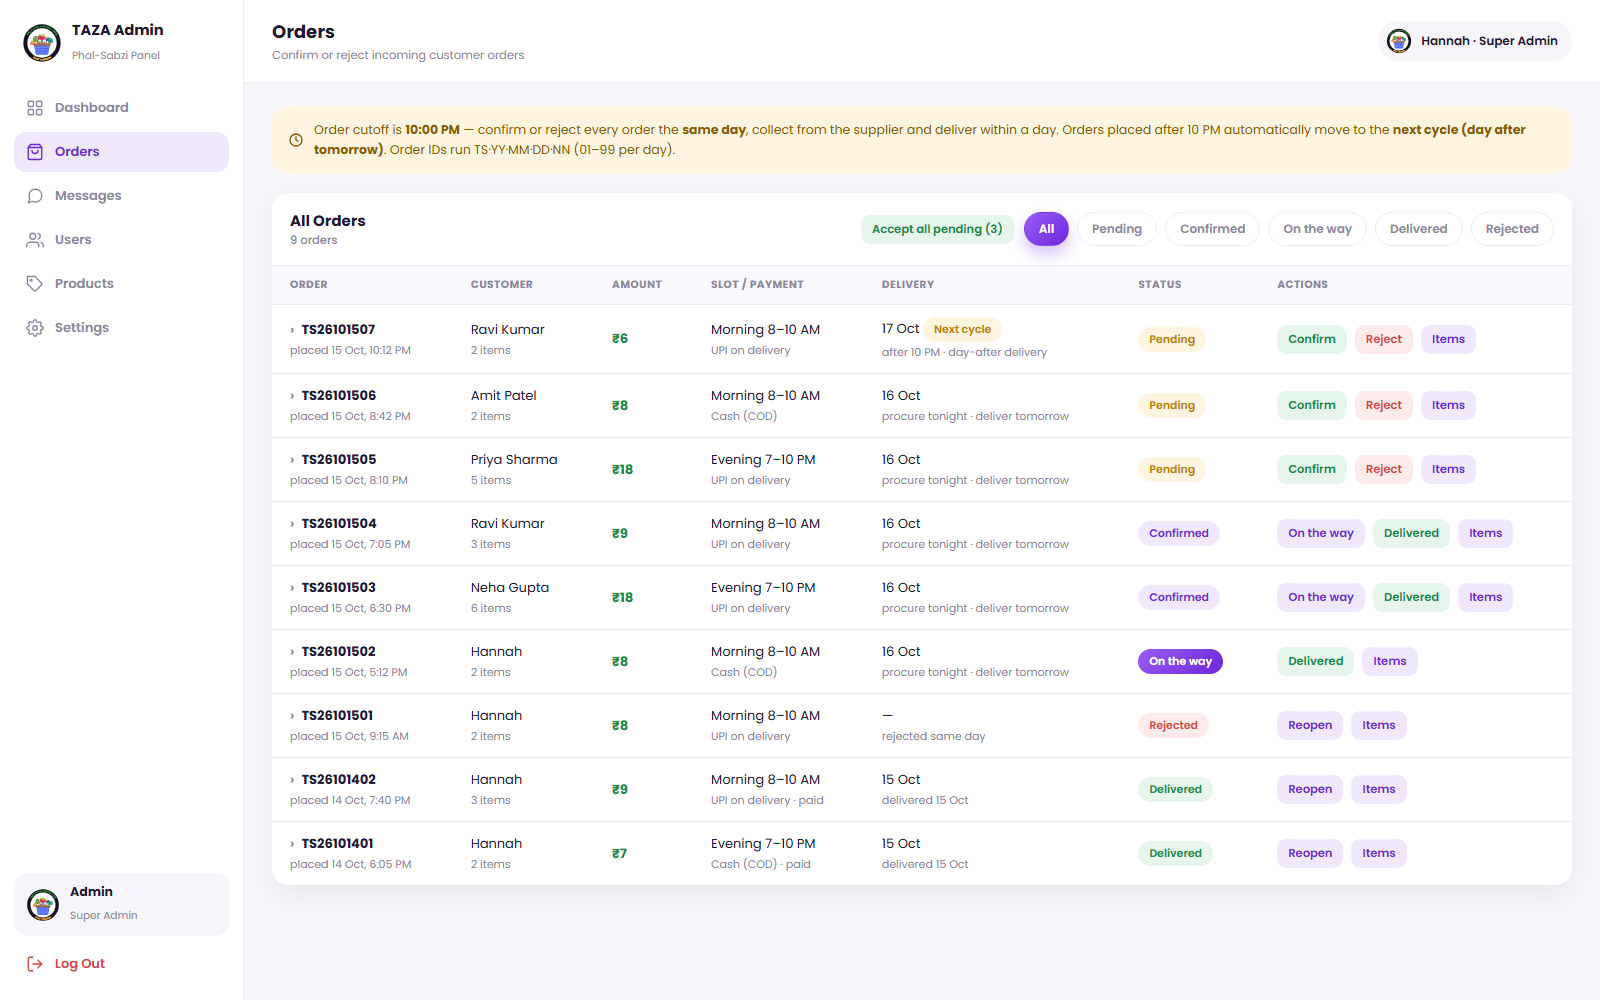
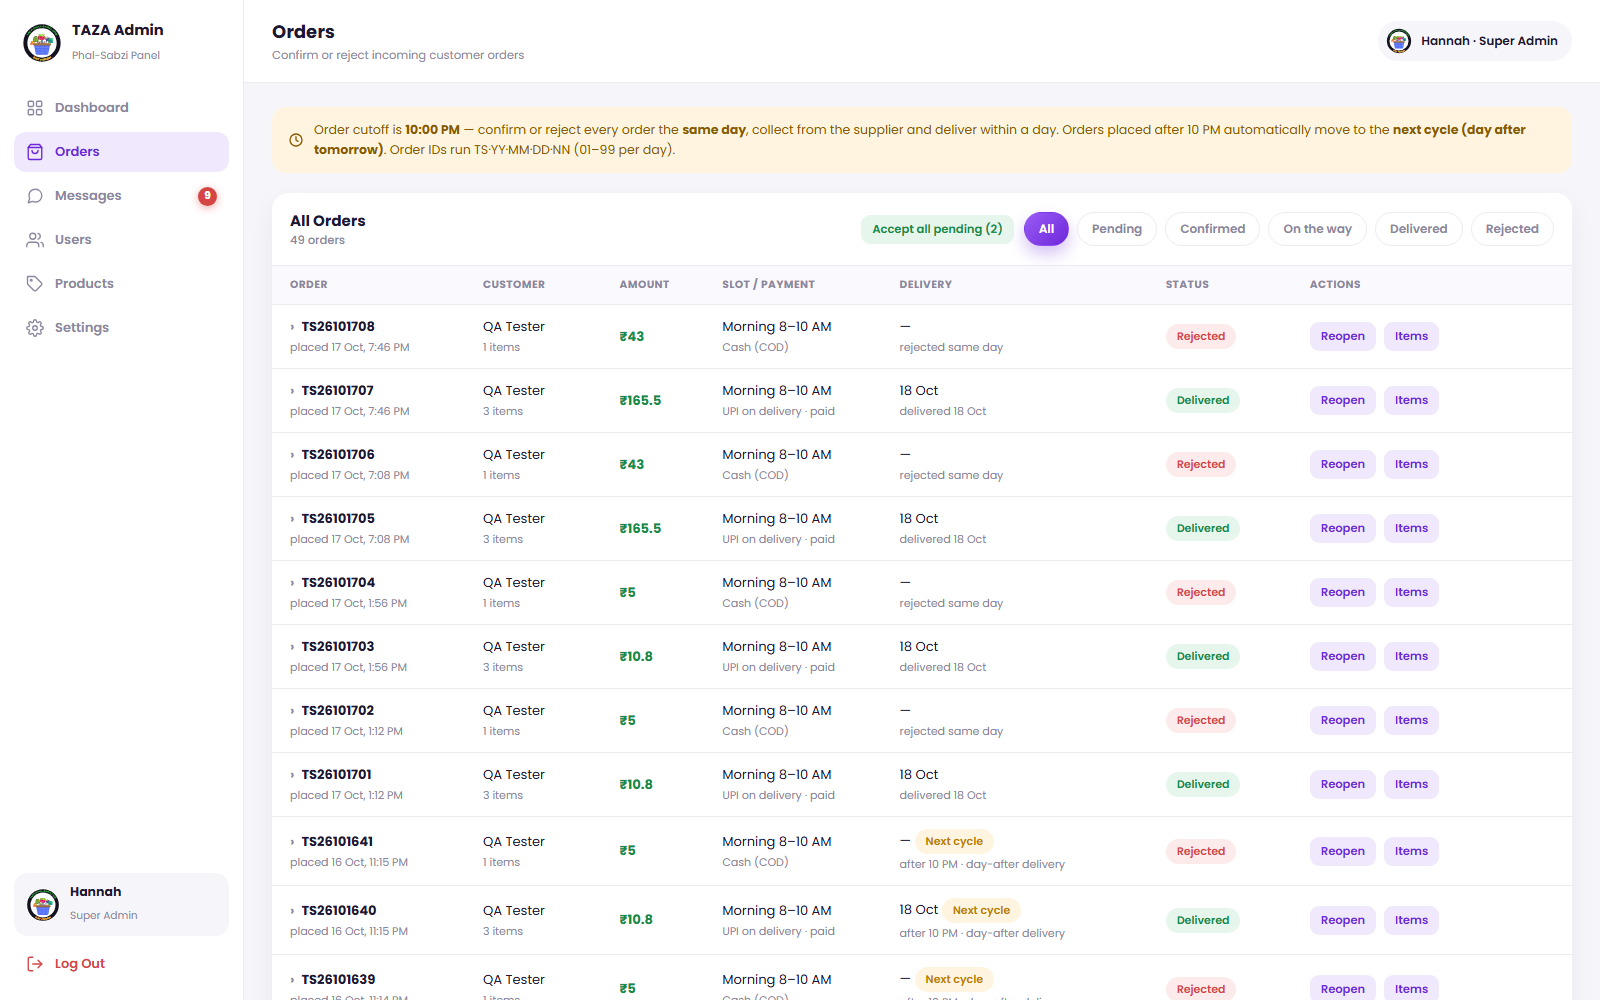
Admin: products as compact tiles on mobile + search, collapsible Add form, unread-messages badge on sidebar

diff --git a/admin/admin.js b/admin/admin.js
@@ -253,6 +253,19 @@
       '<div class="admin-user"><img src="logo.svg" alt="" /><div><b id="sidebarAdminName">Admin</b><span>Super Admin</span></div></div>' +
       '<a class="nav-item logout" id="adminLogout" href="../templates/login.html">' + ICONS.logout + '<span>Log Out</span></a>';
 
+    /* unread-messages badge on the Messages nav item (visible from every page) */
+    var msgLink = null;
+    Array.prototype.forEach.call(el.querySelectorAll('.nav-item'), function (a) {
+      if ((a.getAttribute('href') || '').indexOf('messages.html') !== -1) msgLink = a;
+    });
+    if (msgLink && !el.querySelector('#msgBadge')) {
+      var badge = document.createElement('span');
+      badge.className = 'nav-badge';
+      badge.id = 'msgBadge';
+      badge.hidden = true;
+      msgLink.appendChild(badge);
+    }
+
     /* mobile: hamburger button in the topbar + slide-in drawer (admin is used on phones) */
     var topbar = $('.topbar');
     if (topbar && !$('#navToggle')) {
@@ -295,6 +308,26 @@
   }
 
   /* ---------------- shared bits ---------------- */
+
+  /* red "new messages" badge on the sidebar Messages item — refreshed from
+     every admin page so unread chats are never missed */
+  function refreshMessagesBadge() {
+    var badge = document.getElementById('msgBadge');
+    if (!badge) return;
+    if (!LIVE) {
+      var n = 0;
+      state.conversations.forEach(function (c) { n += Number(c.unread) || 0; });
+      badge.textContent = n;
+      badge.hidden = !n;
+      return;
+    }
+    if (!window.TAZA || !window.TAZA.token()) return;
+    window.TAZA.adminUnread().then(function (res) {
+      var n = Number(res.unread) || 0;
+      badge.textContent = n;
+      badge.hidden = !n;
+    }).catch(function () { /* keep the last known count */ });
+  }
 
   var STATUS_CLASS = { 'Pending': 'pending', 'Confirmed': 'confirmed', 'On the way': 'way', 'Delivered': 'delivered', 'Rejected': 'rejected' };
 
@@ -728,11 +761,14 @@
   }
 
   var productFilter = 'All';
+  var productQuery = '';
 
   function renderProducts() {
     var tbody = $('#productsBody');
     if (!tbody) return;
+    var q = productQuery.trim().toLowerCase();
     var list = state.products.filter(function (p) {
+      if (q && String(p.name).toLowerCase().indexOf(q) === -1) return false;
       if (productFilter === 'All') return true;
       if (productFilter === 'Disabled') return Number(p.active) === 0;
       return p.cat === productFilter;
@@ -784,7 +820,10 @@
     var countEl = $('#prodCount');
     if (countEl) {
       var offCount = state.products.filter(function (p) { return Number(p.active) === 0; }).length;
-      countEl.textContent = list.length + ' products' + (productFilter !== 'Disabled' && offCount ? ' · ' + offCount + ' disabled' : '');
+      var base = q || productFilter !== 'All'
+        ? list.length + ' of ' + state.products.length + ' products'
+        : list.length + ' products';
+      countEl.textContent = base + (productFilter !== 'Disabled' && offCount ? ' · ' + offCount + ' disabled' : '');
     }
   }
 
@@ -913,10 +952,12 @@
         });
         renderThread();
         renderConvList();
+        refreshMessagesBadge();
       }).catch(function (err) { toast(err.message || 'Could not load the conversation'); });
       return;
     }
     renderThread();
+    refreshMessagesBadge();
   }
 
   /* ---------------- product photos & description (modal) ---------------- */
@@ -1054,6 +1095,7 @@
         return { id: c.id, name: c.name, status: c.status, last_text: c.last_text, last_at: c.last_at, unread: c.unread, messages: open && String(activeConvId) === String(c.id) ? open : [] };
       });
       renderConvList();
+      refreshMessagesBadge();
       if (!activeConvId && state.conversations.length) openConversation(state.conversations[0].id);
     }).catch(function (err) { toast(err.message || 'Could not load conversations'); });
   }
@@ -1470,6 +1512,41 @@
     }
   }
 
+  /* product search box — filters live as you type */
+  var prodSearchEl = $('#prodSearch');
+  if (prodSearchEl) {
+    prodSearchEl.addEventListener('input', function () {
+      productQuery = prodSearchEl.value || '';
+      renderProducts();
+    });
+  }
+
+  /* mobile: collapse the Add-Product form so the catalogue is one screen away */
+  (function () {
+    var form = $('#addProductForm');
+    var toggle = $('#addToggle');
+    if (!form || !toggle) return;
+    var isMobile = function () { return window.matchMedia('(max-width: 980px)').matches; };
+    var apply = function () {
+      var open = form.getAttribute('data-open') === '1';
+      if (isMobile()) {
+        toggle.hidden = false;
+        form.hidden = !open;
+        toggle.textContent = open ? '− Close' : '+ New item';
+      } else {
+        toggle.hidden = true;
+        form.hidden = false;
+      }
+    };
+    toggle.addEventListener('click', function () {
+      form.setAttribute('data-open', form.getAttribute('data-open') === '1' ? '0' : '1');
+      apply();
+      if (form.getAttribute('data-open') === '1' && $('#npName')) $('#npName').focus();
+    });
+    window.addEventListener('resize', apply);
+    apply();
+  })();
+
   /* ---------------- init ---------------- */
 
   function initDemo() {
@@ -1499,6 +1576,7 @@
     fillSettings(DEMO.settings);
     renderConvList();
     if ($('#convList') && state.conversations.length) openConversation(state.conversations[0].id);
+    refreshMessagesBadge();
   }
 
   function initLive(me) {
@@ -1552,6 +1630,10 @@
       window.TAZA.adminSettings().then(function (res) { fillSettings(res.settings); })
         .catch(function (err) { toast(err.message || 'Could not load settings'); });
     }
+
+    /* keep the sidebar unread badge fresh on every page */
+    refreshMessagesBadge();
+    setInterval(refreshMessagesBadge, 60000);
   }
 
   function boot() {

diff --git a/admin/admin.css b/admin/admin.css
@@ -434,6 +434,80 @@ select.input { cursor: pointer; }
 .p-emoji { font-family: var(--emoji); margin-right: 8px; }
 .muted { color: var(--muted); font-size: 12px; }
 
+/* ---------- red unread-messages badge on the sidebar ---------- */
+.nav-badge {
+  margin-left: auto;
+  min-width: 19px;
+  height: 19px;
+  padding: 0 6px;
+  border-radius: 99px;
+  background: var(--danger);
+  color: #fff;
+  font-size: 10.5px;
+  font-weight: 700;
+  display: grid;
+  place-items: center;
+  box-shadow: 0 2px 8px rgba(214, 69, 69, 0.45);
+}
+
+/* ---------- product search ---------- */
+.prod-search {
+  width: 210px;
+  height: 38px;
+}
+
+/* ---------- products page: table becomes tiles on phones ---------- */
+@media (max-width: 980px) {
+  .prod-search { width: 100%; }
+
+  .products-table { min-width: 0; display: block; }
+  .products-table thead { display: none; }
+  .products-table tbody {
+    display: grid;
+    grid-template-columns: repeat(auto-fill, minmax(148px, 1fr));
+    gap: 10px;
+    padding: 12px;
+  }
+  .products-table tbody tr {
+    display: flex;
+    flex-direction: column;
+    align-items: flex-start;
+    gap: 4px;
+    padding: 10px 11px;
+    border: 1px solid var(--line);
+    border-radius: 14px;
+    background: #fff;
+    box-shadow: 0 5px 14px rgba(29, 24, 48, 0.05);
+  }
+  .products-table tbody td {
+    display: block;
+    width: 100%;
+    border: 0;
+    padding: 0;
+    font-size: 12px;
+    line-height: 1.35;
+  }
+  .products-table tbody td b { white-space: normal; font-size: 13.5px; }
+  .products-table tbody td:nth-child(2) { color: var(--muted); font-size: 11px; }
+  .products-table .pill { font-size: 10px; padding: 3px 9px; }
+  .products-table .sub { font-size: 10.5px; margin-top: 2px; }
+  .products-table tbody td.actions-cell {
+    margin-top: 5px;
+    padding-top: 8px;
+    border-top: 1px dashed var(--line);
+    display: flex;
+    align-items: center;
+    gap: 7px;
+  }
+  .products-table tbody td.actions-cell .iconbtn { width: 31px; height: 31px; }
+  .products-table tbody td.actions-cell .iconbtn + .iconbtn { margin-left: 0; }
+  .products-table tbody tr:hover td { background: transparent; }
+  .products-table tbody tr:only-child { grid-column: 1 / -1; }
+  /* inline edit controls fill the tile */
+  .products-table tbody td select,
+  .products-table tbody td input.rate-edit-rate { width: 100% !important; }
+}
+
 /* installed-app mode: keep content clear of the phone's system bars.
    Some Android builds overlay the nav buttons without reporting an inset,
    so guarantee clearance in standalone mode (larger value wins). */

diff --git a/admin/products.html b/admin/products.html
@@ -29,14 +29,15 @@
       </header>
 
       <main class="content">
-        <section class="card">
+        <section class="card" id="addCard">
           <div class="card-head">
             <div>
               <h2>Add Product</h2>
               <p class="hint">Rates are whole rupees (₹) — sections follow the landing page (KG / Bunch / Gram / Piece & Pack …)</p>
             </div>
+            <button class="btn ghost small" id="addToggle" type="button" hidden>+ New item</button>
           </div>
-          <form class="form-grid" id="addProductForm">
+          <form class="form-grid" id="addProductForm" hidden>
             <label class="field">
               <span>Name</span>
               <input class="input" id="npName" placeholder="e.g. Green Peas" />
@@ -81,15 +82,18 @@
               <h2>Product Catalogue</h2>
               <p class="hint" id="prodCount">34 products</p>
             </div>
-            <div class="chips" id="productFilters">
-              <button class="chip active" data-filter="All">All</button>
-              <button class="chip" data-filter="veg">Vegetables</button>
-              <button class="chip" data-filter="fruits">Fruits</button>
-              <button class="chip" data-filter="Disabled">Disabled</button>
+            <div class="head-actions">
+              <input class="input prod-search" id="prodSearch" type="search" placeholder="Search products…" />
+              <div class="chips" id="productFilters">
+                <button class="chip active" data-filter="All">All</button>
+                <button class="chip" data-filter="veg">Vegetables</button>
+                <button class="chip" data-filter="fruits">Fruits</button>
+                <button class="chip" data-filter="Disabled">Disabled</button>
+              </div>
             </div>
           </div>
           <div class="table-wrap">
-            <table class="table">
+            <table class="table products-table">
               <thead>
                 <tr><th>Product</th><th>Category</th><th>Section</th><th>Unit</th><th>Rate</th><th>Actions</th></tr>
               </thead>

diff --git a/server/test-e2e.js b/server/test-e2e.js
@@ -159,6 +159,8 @@ function check(name, ok, extra) {
   /* 8. chat round-trip */
   const c1 = await req('POST', '/api/chat/my', { text: 'Hi, is the spinach fresh today?' }, custToken);
   check('customer sends chat', c1.status === 201);
+  const admUnread = await req('GET', '/api/chat/admin-unread', null, adminToken);
+  check('admin unread counter (sidebar badge)', admUnread.status === 200 && Number(admUnread.data.unread) >= 1, 'unread ' + admUnread.data.unread);
   const convs = await req('GET', '/api/chat/conversations', null, adminToken);
   const conv = (convs.data.conversations || []).find(function (c) { return c.name === 'QA Tester'; });
   check('admin inbox shows conversation with unread', !!conv && conv.unread >= 1, conv ? 'unread ' + conv.unread : 'missing');

diff --git a/server/routes/chat.js b/server/routes/chat.js
@@ -65,6 +65,14 @@ router.get('/conversations', requireAdmin, wrap(async (req, res) => {
   res.json({ conversations: conversations });
 }));
 
+/* GET /api/chat/admin-unread — total unread customer messages (sidebar badge) */
+router.get('/admin-unread', requireAdmin, wrap(async (req, res) => {
+  const [[r]] = await db.query(
+    "SELECT COUNT(*) AS n FROM messages WHERE sender = 'customer' AND read_by_admin = 0"
+  );
+  res.json({ unread: r.n });
+}));
+
 /* GET /api/chat/conversations/:id */
 router.get('/conversations/:id', requireAdmin, wrap(async (req, res) => {
   const convId = Number(req.params.id);

diff --git a/templates/api.js b/templates/api.js
@@ -108,6 +108,7 @@
     adminSettings: function () { return request('GET', '/admin/settings'); },
     adminSaveSettings: function (payload) { return request('PUT', '/admin/settings', payload); },
     adminConversations: function () { return request('GET', '/chat/conversations'); },
+    adminUnread: function () { return request('GET', '/chat/admin-unread'); },
     adminConversation: function (id) { return request('GET', '/chat/conversations/' + id); },
     adminReply: function (id, text) { return request('POST', '/chat/conversations/' + id, { text: text }); }
   };
